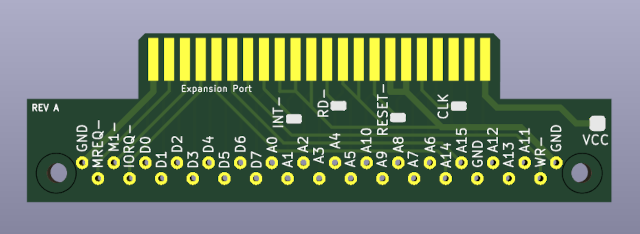
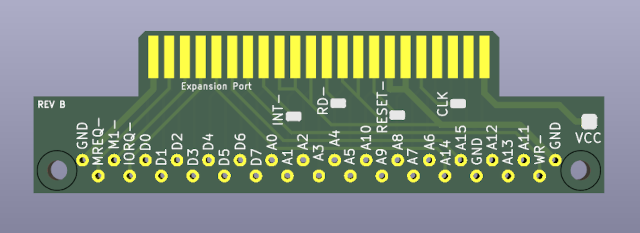
Added deep expansion slot PCB

diff --git a/README.md b/README.md
@@ -1,33 +1,36 @@
 # Galaksija Resources
 
-This repository contains various resources for retro computer [Galaksija](https://en.wikipedia.org/wiki/Galaksija_(computer)) (eng. Galaxy). Most of this stuff is not available nowhere else and is created or adapted by me.
+This repository contains various resources for retro computer [Galaksija](https://en.wikipedia.org/wiki/Galaksija_(computer)) (eng. Galaxy). Most of this stuff is not available nowhere else and is created or at least adapted by me.
 
 ## Expansion Slot PCB
 
-Many, if not most classical Galaksija computers are made without expansion port connector. This edge connector is meant to be made as two sided PCB soldered on top of the one sided motherboard.
+Many, if not most classical Galaksija computers are made without expansion port connector. This edge connector is originally meant to be made as two sided PCB soldered on top of the one sided motherboard.
 
-This repository contains Gerber files for PCB manufacturing for this kind of edge connector. It is designed to be backward compatible with original edge PCB connector but has some additional signal pins as well as a power supply (VCC) pin which were omitted in the original design. These additional signals and VCC must be brought with wires and soldered to the
-expansion connector PCB at marked solder pads (e.g. `READ` CPU signal should be soldered to pad marked as `RD-`). As an addition, in comparison to the original edge PCB connector, this connector has some extra ground (GND) pins provided.
+This repository contains Gerber files for PCB manufacturing for this kind of edge connector. It is designed to be backward compatible with original edge PCB connector but has some additional signal pins as well, as a power supply (VCC) pin which were omitted in the original design. These additional signals and VCC must be brought with wires and soldered to the expansion connector PCB at marked solder pads (e.g. `READ` CPU signal should be soldered to pad marked as `RD-`). As an addition, in comparison to the original edge PCB connector, this connector has some extra ground (GND) pins provided.
 
-Next image shows top side look of the expansion connector PCB. This is also the top side of the board (visible side) after it is soldered to the motherboard. Although may seem obvious, this is important to note because if soldered in the reverse orientation, both device plugged to the connector and a motherboard may end up damaged!
+PCB image shown bellow shows top side look of the expansion connector PCB. This is also the top side of the board (visible side) after it is soldered to the motherboard. Although may seem obvious, this is important to note because if soldered in the reverse orientation, both device plugged to the connector and the motherboard may end up damaged!
+
+There are two versions of the board, with different port depths. Deeper version, shown on the second picture bellow, is about 5 millimeters deeper. Choose one which better suits your case (pun intended). If you have a Galaksija without a case, or have a case with thin walls right next to the motherboard's edge, than shallower version may be better choice. On the other hand, if your computer has a case with thick walls or has some empty space between motherboard and the case wall, than choose deeper version. The other aspect you may take into account is how big is opening on your case for the expansion slot. If opening is big enough for edge connector to slide into the case to some extent, than you may choose shorter version, and if opening is too small, than better to choose deeper PCB version.
 
 ![Expansion port PCB.](/images/expansion_port_pcb.png)
 
-And the next image shows port pinout looking from the outside towards the connector.
+![Expansion port PCB.](/images/expansion_port_pcb_deep.png)
+
+Next image shows a port pinout looking from the outside towards the connector.
 
 ![Expansion port pinout.](/images/expansion_port_pinout.png)
 
 ## ROM Binary Files
 
-ROM binary files at this repository are ROM A and ROM B files for classical Galaksija computers with ROM A changed to support keyboard layout identical to layout of newer Galaksija 2024. This layout is more favorable because it allows use of standard PC keyboard keycaps. With this ROM A patch, use of standard keycaps is now possible for old/classical Galaksijas, too.
+ROM binary files at this repository are ROM A and ROM B files for classical Galaksija computers with ROM A changed to support keyboard layout identical to layout of newer Galaksija 2024. This layout is more favorable because it allows use of standard PC keyboard keycaps. With this ROM A patch, use of standard keycaps is now possible also for old/classical Galaksijas.
 
 ## ROM Source Files
 
-ROM A and ROM B source files are ROM assembly source code files for classical Galaksija. ROM A source file has many additional comments and many addresses changed to more readable symbolical form, while ROM B source is equal to official source available as a PDF file and has only original comments in Serbian language.
+ROM A and ROM B source files are ROM assembly source code files for classical Galaksija. This version of ROM A source file has many additional comments and many addresses changed to more readable symbolical form, while ROM B source is equal to official source available as a PDF file and has only original comments in Serbian language.
 
 ## Bin2Gtp
 
-Bin2Gtp is a Windows executable program which wraps binary file into the GTP (Galaksija Tape Program) file format. Initial version is written by Tomaž Šolc but version published here has additional functionality to support creating a GTP file solely from binary file, without any BASIC code. As a requirement, it needs Microsoft Visual C/C++ 2022 Redistributable package installed. For more information on usage of this command enter `bin2gtp -help` in command prompt window.
+Bin2Gtp is a Windows executable program which wraps binary file into the GTP (Galaksija Tape Program) file format and is initially written by Tomaž Šolc. However, version published here has additional functionality to support creating a GTP file solely from a binary file, without any BASIC code. As a requirement, it needs Microsoft Visual C/C++ 2022 Redistributable package installed. For more information on usage of this command enter `bin2gtp -help` line in command prompt window.
 
 ## Machine Code Monitor
 
@@ -37,4 +40,4 @@ This version has rewritten disassembler part of the code. It now uses a bit more
 
 The MIT License (MIT)
 
-Copyright (c) 2024 Vitomir Spasojević (<https://github.com/DigitalVS/Galaxy-Resources>). All rights reserved.
+Copyright (c) 2025 Vitomir Spasojević (<https://github.com/DigitalVS/Galaxy-Resources>). All rights reserved.
